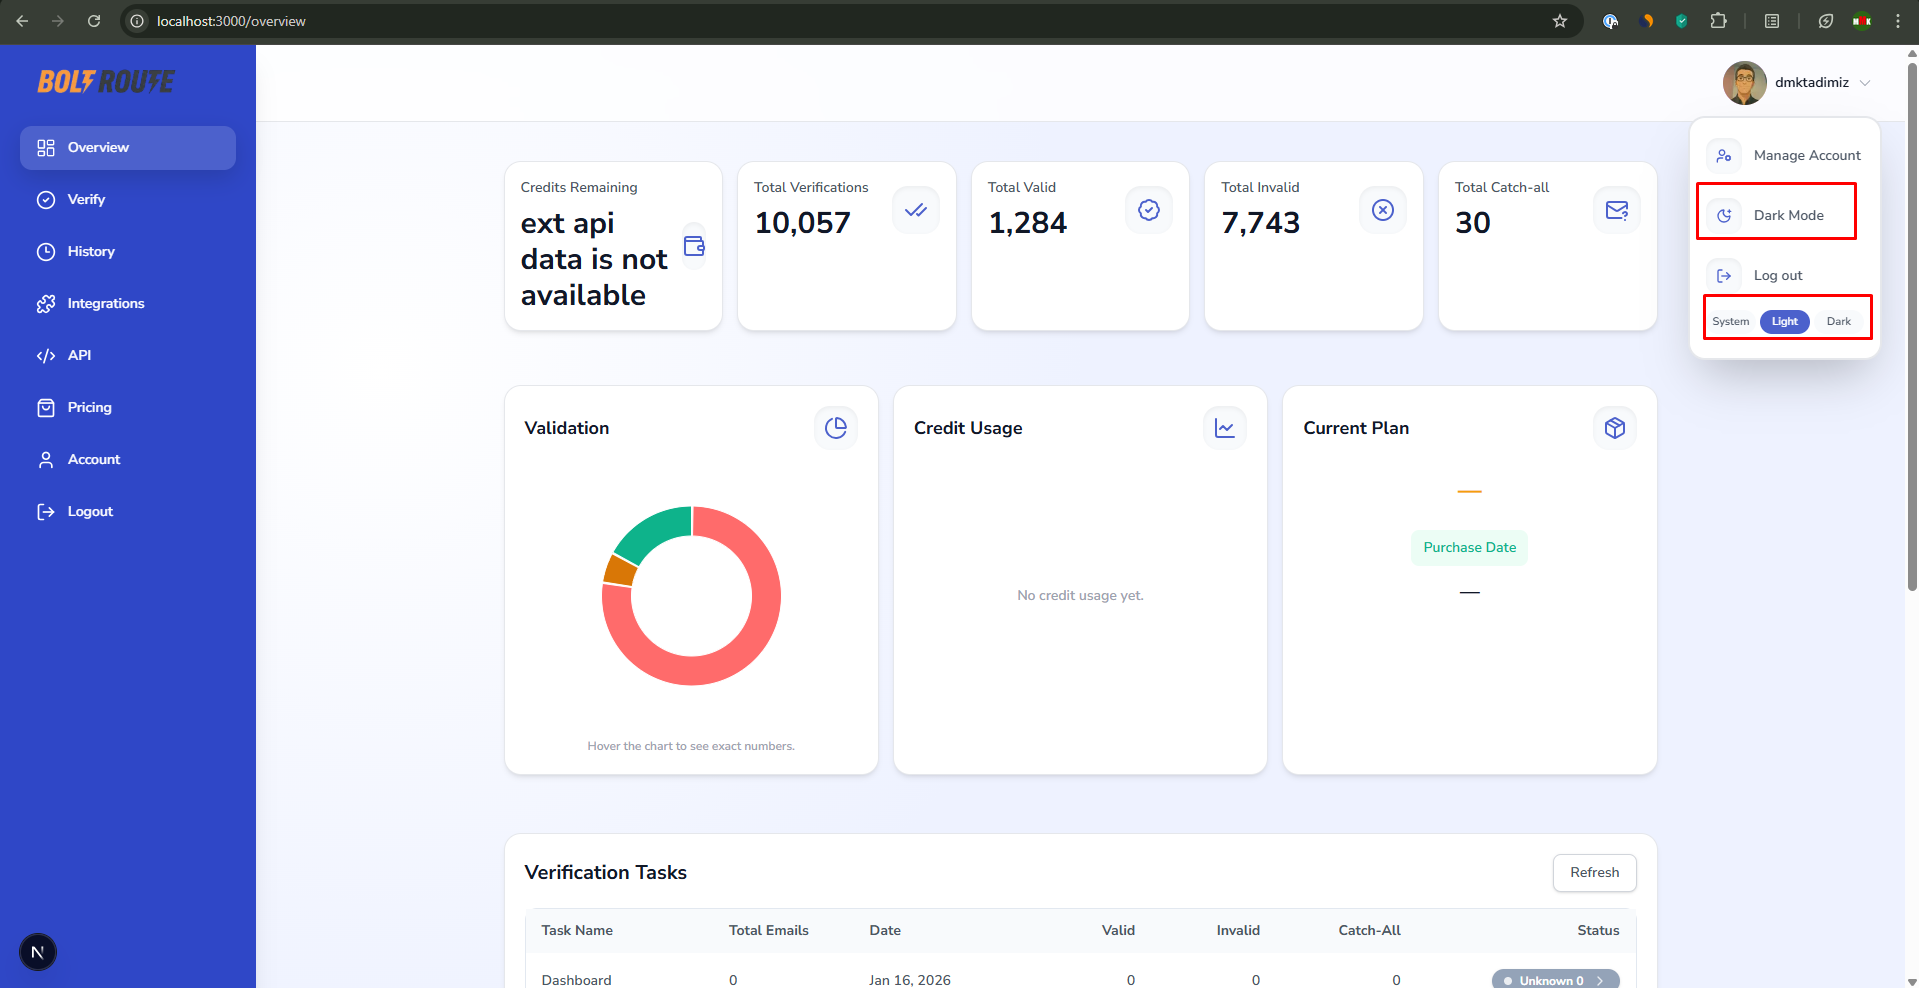
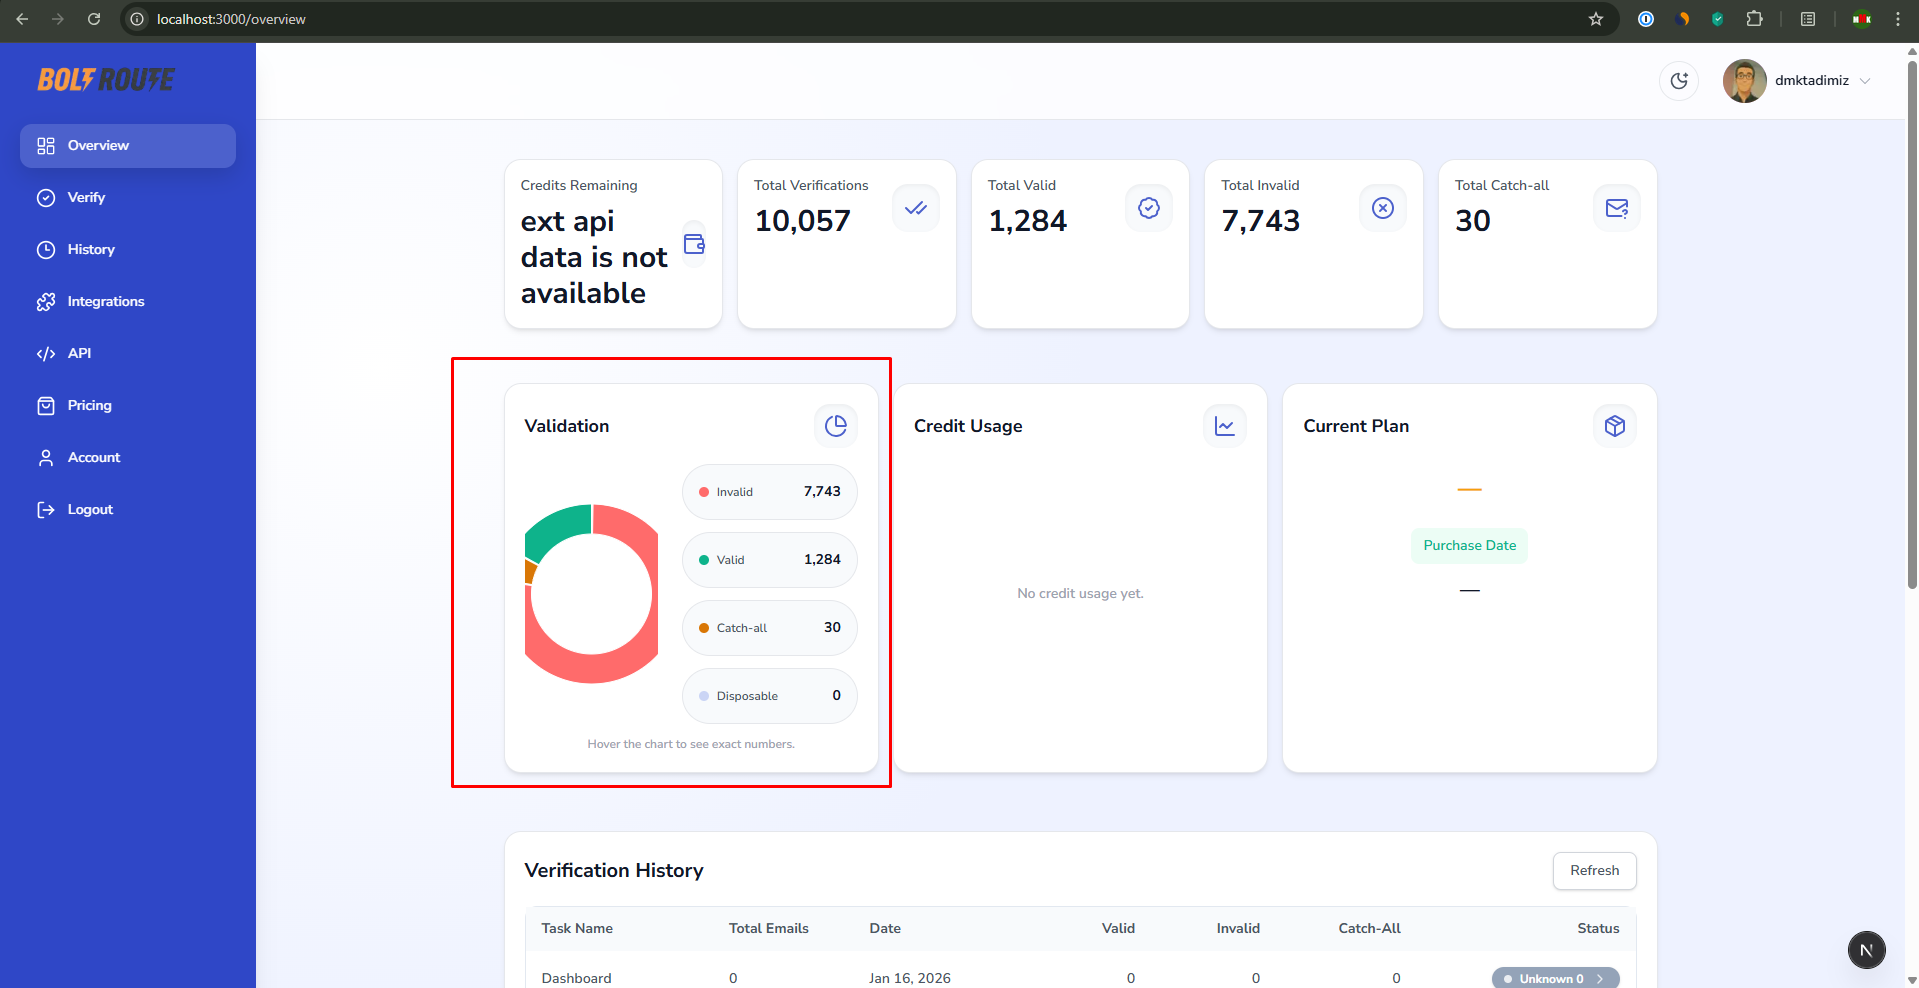
feat: add validation pills and ignore root pngs

diff --git a/app/overview/page.tsx b/app/overview/page.tsx
@@ -162,10 +162,11 @@ export default function OverviewPage() {
         valid: totals.valid ?? 0,
         invalid: totals.invalid ?? 0,
         catchAll: totals.catchall ?? 0,
+        disposable: totals.disposable ?? 0,
         total: totals.total ?? 0,
       };
     }
-    return aggregateValidationCounts(overview?.recent_tasks);
+    return { ...aggregateValidationCounts(overview?.recent_tasks), disposable: 0 };
   }, [overview]);
 
   const stats: Stat[] = useMemo(() => {
@@ -199,6 +200,15 @@ export default function OverviewPage() {
     return slices.filter((slice) => slice.value > 0);
   }, [overview, validationTotals]);
   const validationHasData = validationTotals.total > 0;
+  const validationPills = useMemo(
+    () => [
+      { label: "Invalid", value: validationTotals.invalid, color: "var(--chart-invalid)" },
+      { label: "Valid", value: validationTotals.valid, color: "var(--chart-valid)" },
+      { label: "Catch-all", value: validationTotals.catchAll, color: "var(--chart-catchall)" },
+      { label: "Disposable", value: validationTotals.disposable, color: "var(--chart-processing)" },
+    ],
+    [validationTotals],
+  );
 
   const usageData: UsagePoint[] = useMemo(
     () => (overview?.usage_series ?? []).map((p) => ({ date: p.date, count: p.count })),
@@ -356,9 +366,10 @@ export default function OverviewPage() {
                 <PieChart className="h-6 w-6" />
               </div>
             </div>
-          <div className="mt-4 h-[260px] w-full">
-            {validationHasData ? (
-                <ResponsiveContainer height={260}>
+          <div className="mt-4 flex h-[260px] w-full items-center gap-6">
+            <div className="h-full flex-1 min-w-0">
+              {validationHasData ? (
+                <ResponsiveContainer height="100%" width="100%">
                   <RePieChart>
                     <Pie
                       data={validationData}
@@ -384,11 +395,33 @@ export default function OverviewPage() {
                     />
                   </RePieChart>
                 </ResponsiveContainer>
-            ) : (
-              <div className="flex h-full items-center justify-center text-sm font-semibold text-slate-500">
-                No validation data yet.
-              </div>
-            )}
+              ) : (
+                <div className="flex h-full items-center justify-center text-sm font-semibold text-slate-500">
+                  No validation data yet.
+                </div>
+              )}
+            </div>
+            <div className="grid h-full w-44 grid-rows-4 gap-3">
+              {validationPills.map((pill) => (
+                <div
+                  key={pill.label}
+                  className="flex h-full items-center justify-between rounded-full border border-slate-200 bg-slate-50 px-4"
+                >
+                  <div className="flex min-w-0 items-center gap-2">
+                    <span
+                      className="h-2.5 w-2.5 shrink-0 rounded-full"
+                      style={{ backgroundColor: pill.color }}
+                    />
+                    <span className="text-xs font-semibold text-slate-600 whitespace-nowrap">
+                      {pill.label}
+                    </span>
+                  </div>
+                  <span className="ml-2 text-sm font-bold text-slate-900 tabular-nums">
+                    {pill.value.toLocaleString()}
+                  </span>
+                </div>
+              ))}
+            </div>
           </div>
           {validationHasData ? (
             <p className="mt-3 text-center text-xs font-semibold text-slate-500">

diff --git a/app/lib/api-client.ts b/app/lib/api-client.ts
@@ -308,6 +308,7 @@ export type OverviewResponse = {
     valid?: number | null;
     invalid?: number | null;
     catchall?: number | null;
+    disposable?: number | null;
   } | null;
   current_plan?: {
     label?: string | null;

diff --git a/PLAN.md b/PLAN.md
@@ -89,6 +89,10 @@
   Explanation: Copy now logs and exits when a full key is unavailable without changing the reveal state. Re-ran frontend tests (`npm run test:overview`, `npm run test:history`, `npm run test:auth-guard`, `npm run test:account-purchases`) with the Python venv active.
 - [x] Step 16 — Overview label: rename Verification Tasks to Verification History.
   Explanation: Renamed the Overview header to “Verification History” and re-ran frontend tests (`npm run test:overview`, `npm run test:history`, `npm run test:auth-guard`, `npm run test:account-purchases`) with the Python venv active.
+- [x] Step 17 — Validation card: add fixed-size status pills beside pie chart.
+  Explanation: Added four fixed-size pills (Invalid, Valid, Catch-all, Disposable) alongside the pie chart with matching colors, equal total height to the chart (via a fixed-height grid), and zeroed counts for unavailable values. The chart stays intact but shifts left to make room. Re-ran frontend tests (`npm run test:overview`, `npm run test:history`, `npm run test:auth-guard`, `npm run test:account-purchases`) with the Python venv active.
+- [x] Step 18 — Ignore root-level PNG files.
+  Explanation: Added `/*.png` to `.gitignore` so only root-level PNGs are ignored while subfolder PNGs remain tracked.
 - [ ] Remaining pages — Verify, History, Integrations, API, Pricing, Account need to be built using the shared shell once Figma node details are provided. Use first-principles MVPs, no placeholders.
 - [ ] API integration — Wire UI to FastAPI email verification backend once endpoint schemas/contracts are known. Replace mock data with typed fetch layer + error handling/logging; avoid hardcoded fallbacks.
 - [x] External-API-first refactor plan doc — create `refactor.md` with a step-by-step transition plan to move dashboard data sourcing from Supabase to the external API (only keep Supabase for data the external API cannot provide).

diff --git a/AGENTS.md b/AGENTS.md
@@ -10,6 +10,7 @@
 - Activate the Python virtual environment before running tests or scripts.
 - If a shell command fails with “failed in sandbox”, use the permission request tool (with `with_escalated_permissions`) before retrying.
 - If any coding file exceeds 600 lines warn me
+- You do not need to ask for confirmation ONLY for md file updates under root
 - When I ask for any CODE CHANGES, proceed as follows:
  -- Tell me what you plan to do first before starting code updates
  -- UPDATE the root-level plan/progress markdown files AFTER EACH COMPLETION, under each task in those files, explain what was done and why for newcomers
